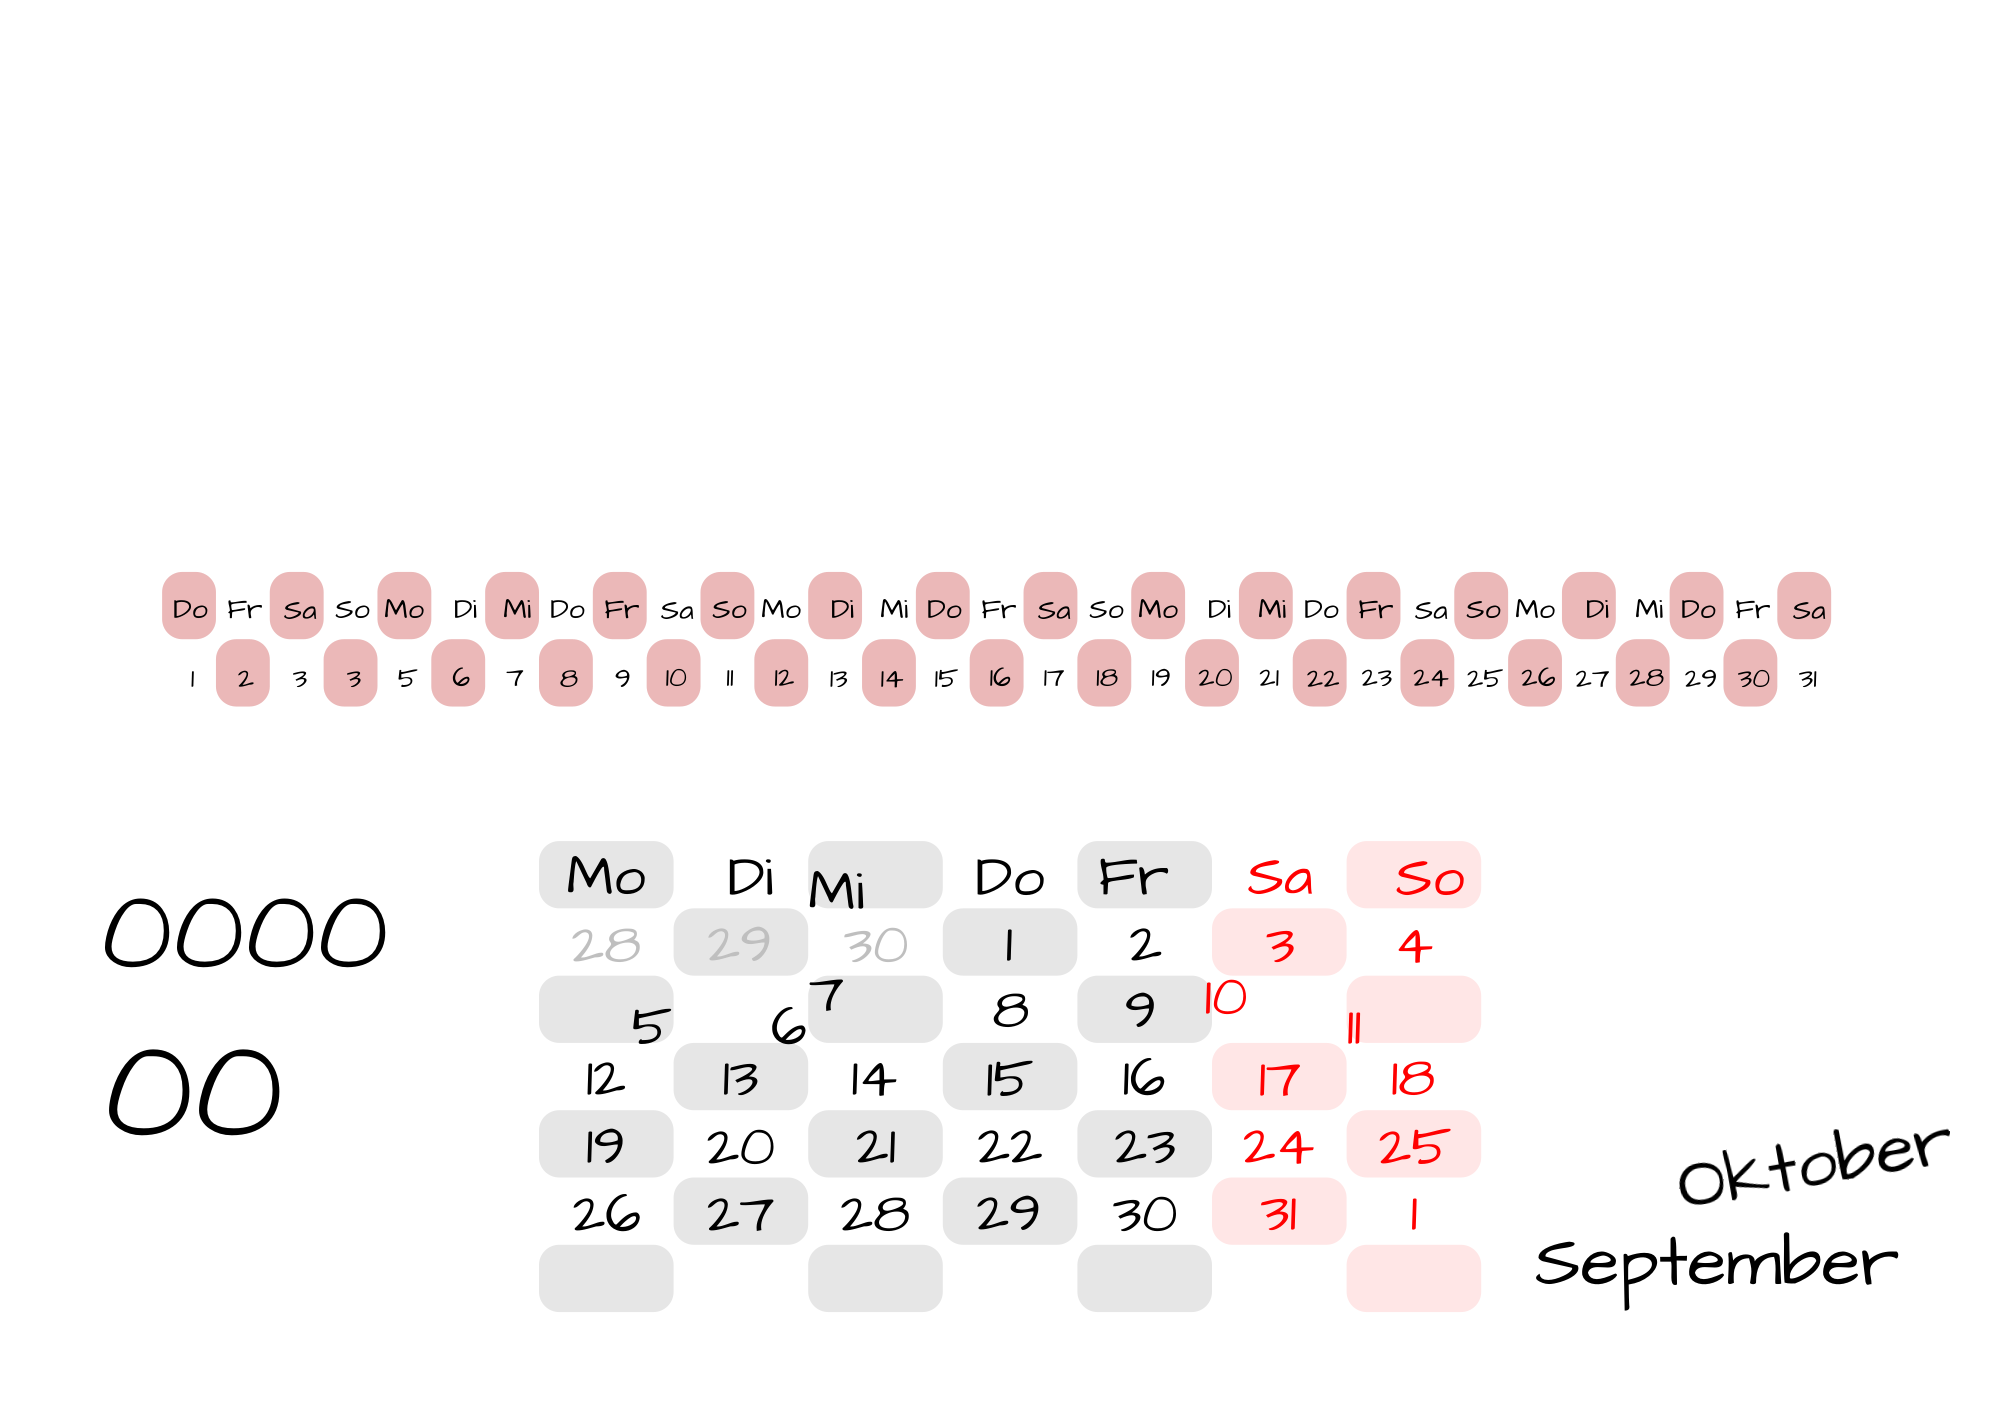
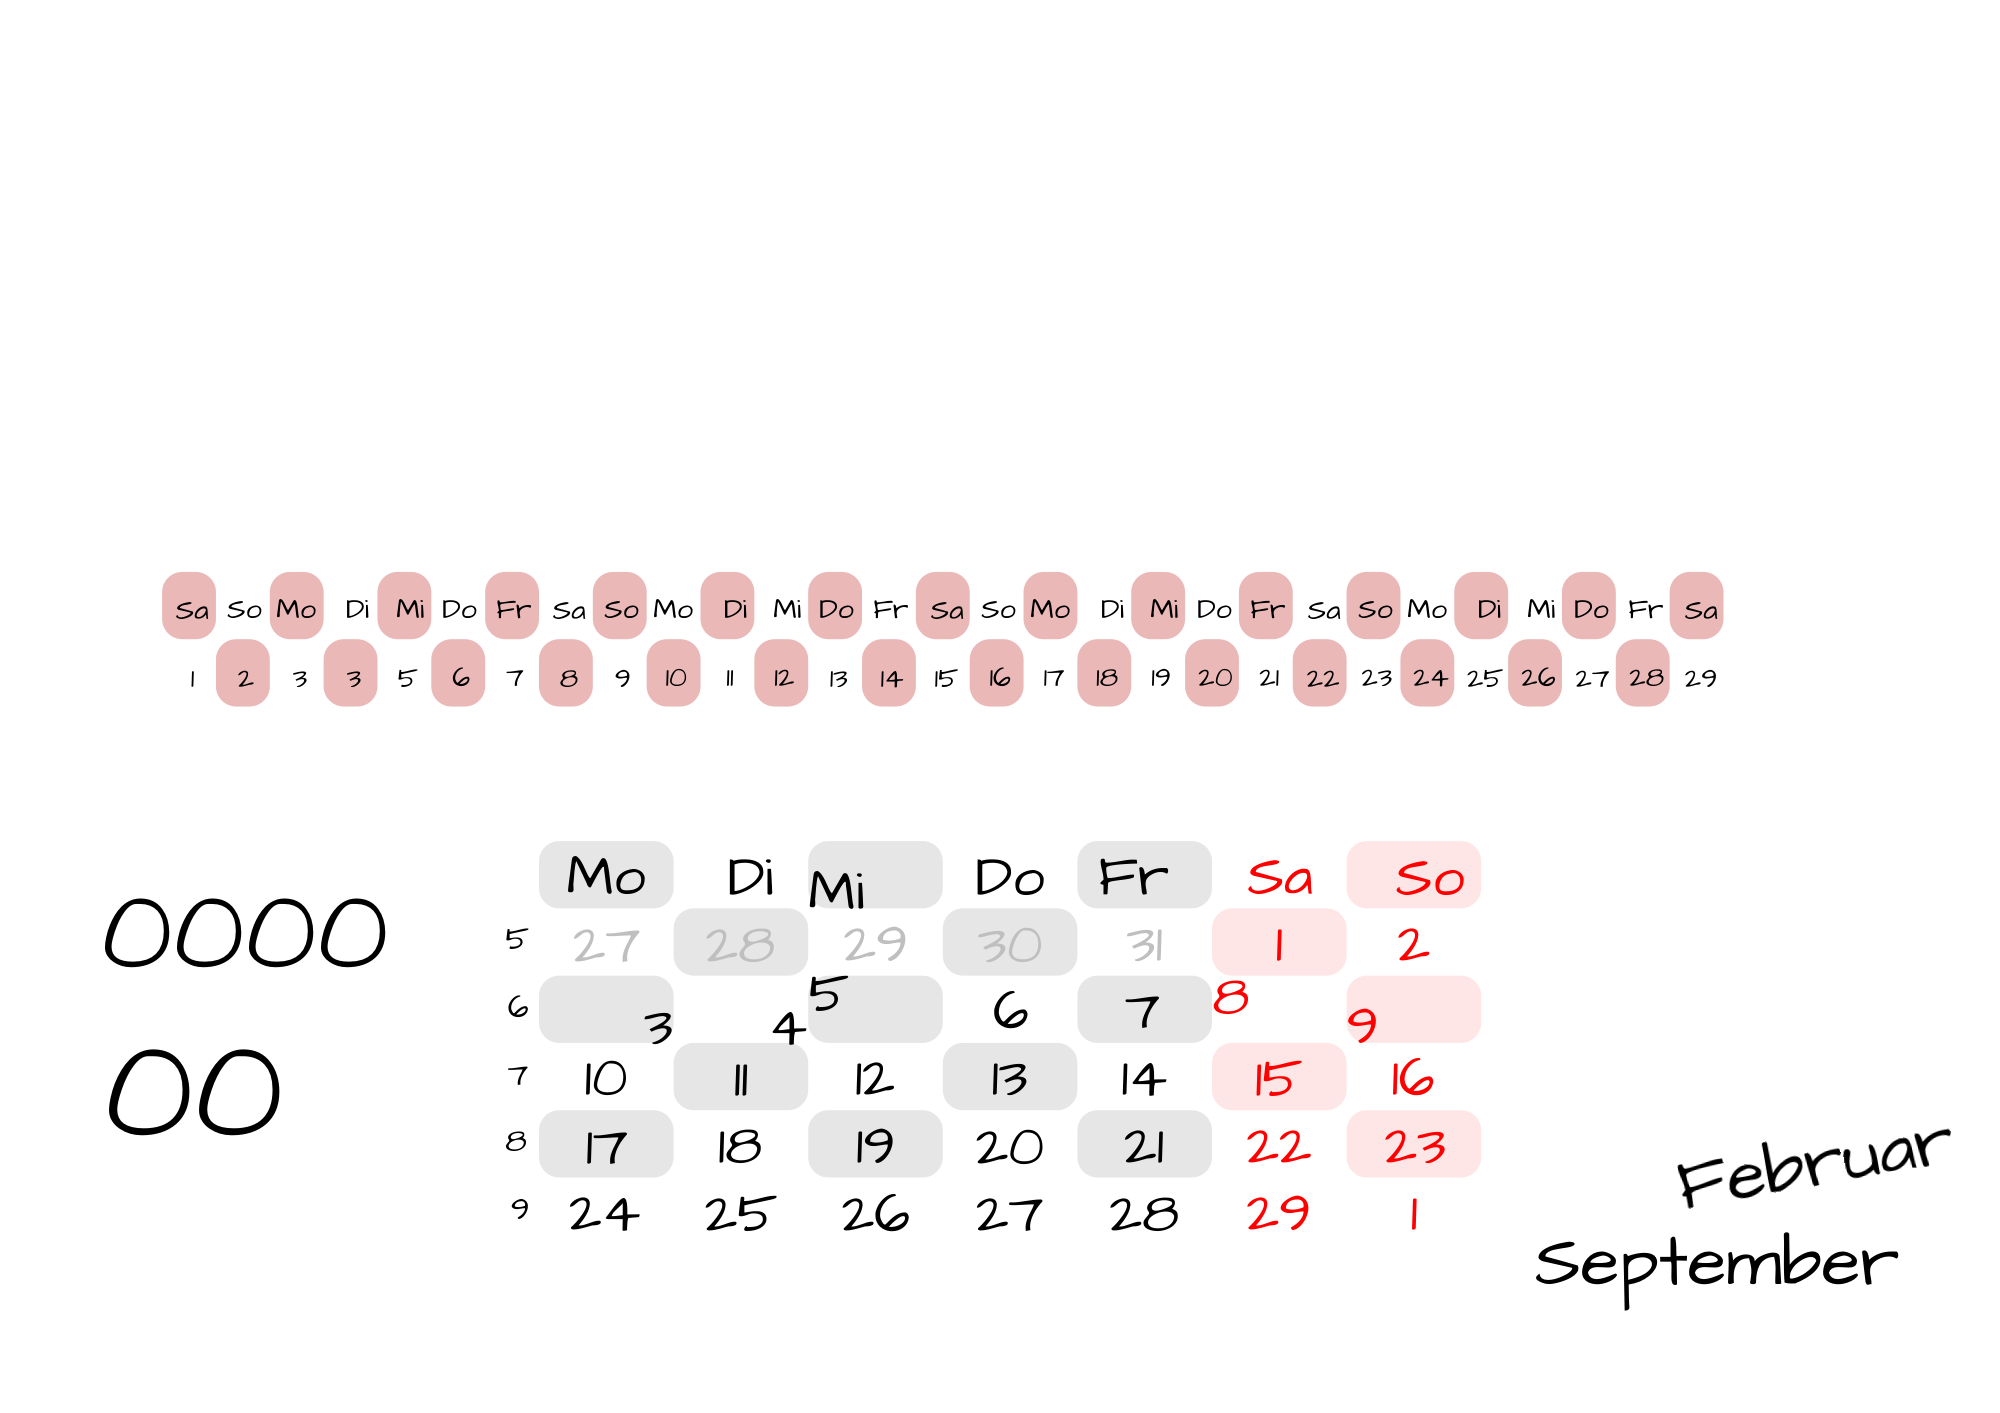
add skipping of elements

diff --git a/svg/node_mapping.go b/svg/node_mapping.go
@@ -9,9 +9,10 @@ import (
 )
 
 type NodeMapping struct {
-	root    *Node
-	Mapping *sync.Map
-	months  []*Node
+	root       *Node
+	Mapping    *sync.Map
+	keepMonths []*Node
+	skipDays   []*Node
 }
 
 type Node struct {
@@ -19,14 +20,20 @@ type Node struct {
 	Children     []*Node
 	start        string
 	end          string
-	renderMonths []int
+	monthsToKeep []int
+	daysToSkip   []int
 }
 
 func NewMapping(data []byte) NodeMapping {
 	root := &Node{}
 	t := html.NewTokenizer(bytes.NewReader(data))
 	m := &sync.Map{}
-	nm := NodeMapping{root, m, make([]*Node, 0)}
+	nm := NodeMapping{
+		root,
+		m,
+		make([]*Node, 0),
+		make([]*Node, 0),
+	}
 	nm.walk(t, root)
 	return nm
 }
@@ -56,7 +63,9 @@ loop:
 	return ""
 }
 
-var monthRegex = regexp.MustCompile("-m(\\d+)")
+var keepMonthsRegex = regexp.MustCompile("-m(\\d+)")
+var skipDayRegex = regexp.MustCompile("-n(\\d+)")
+
 func (nm *NodeMapping) addToMapping(t html.Token, parent *Node) *Node {
 	id := ""
 	for _, attr := range t.Attr {
@@ -68,49 +77,43 @@ func (nm *NodeMapping) addToMapping(t html.Token, parent *Node) *Node {
 	if id == "" {
 		return nil
 	}
-	months := monthRegex.FindStringSubmatch(id)
-	monthNumbers := make([]int, 0)
-	for _, month := range months {
-		n, _:= strconv.Atoi(month)
-		monthNumbers = append(monthNumbers, n)
+
+	var keepMonths []int
+	var skipDays []int
+
+	months := keepMonthsRegex.FindStringSubmatch(id)
+	if len(months) > 0 {
+		keepMonths = make([]int, 0)
+		for _, month := range months[1:] {
+			x, _ := strconv.Atoi(month)
+			keepMonths = append(keepMonths, x)
+		}
 	}
+
+	days := skipDayRegex.FindStringSubmatch(id)
+	if len(days) > 0 {
+		skipDays = make([]int, 0)
+		for _, day := range days[1:] {
+			x, _ := strconv.Atoi(day)
+			skipDays = append(skipDays, x)
+		}
+	}
+
 	n := &Node{
 		id,
 		make([]*Node, 0),
 		t.String(),
 		"",
-		monthNumbers,
+		keepMonths,
+		skipDays,
 	}
 	nm.Mapping.Store(id, n)
-	if len(monthNumbers) > 0 {
-
+	if len(keepMonths) > 0 {
+		nm.keepMonths = append(nm.keepMonths, n)
+	}
+	if len(skipDays) > 0 {
+		nm.skipDays = append(nm.skipDays, n)
 	}
 	parent.Children = append(parent.Children, n)
 	return n
 }
-
-//func filterByMonth(data []byte, month int) (Node, map[string]Node) {
-//	var start Node
-//	if err := xml.Unmarshal(data, &start); err != nil {
-//		panic("cannot parse svg: " + err.Error())
-//	}
-//
-//	mapping := make(map[string]Node)
-//	walkAndFilter(start.Nodes, mapping, func(node Node) bool {
-//		reg := regexp.MustCompile("^m(\\d+)") // todo check
-//		ids := strings.Split(node.Id, "-")
-//		for _, id := range ids {
-//			subj := reg.FindString(id)
-//			n, err := strconv.Atoi(subj)
-//			if err != nil {
-//				continue
-//			}
-//			if n == month {
-//				return false
-//			}
-//		}
-//		return true
-//	})
-//
-//	return start, mapping
-//}

diff --git a/svg/calendar_renderer.go b/svg/calendar_renderer.go
@@ -31,11 +31,13 @@ var (
 	wg = &sync.WaitGroup{}
 )
 
-func (c *Calendar) Render(year, month int, width float64) {
-	ctx := renderSvg(c.svgContent, width)
-	go startReceiver(ctx)
+func (c *Calendar) Render(year, month int, width, height float64) {
+	canvas := gg.NewContext(int(width), int(height))
+	go startReceiver(canvas)
 	c.drawTexts(year, month)
-	ctx.SavePNG("saved.png")
+	bg := renderSvg(c.svgContent, width)
+	bg.DrawImage(canvas.Image(), 0, 0)
+	bg.SavePNG("saved.png")
 }
 
 type ImageObject struct {
@@ -206,19 +208,49 @@ loop:
 		}
 	}
 
-	//reg := regexp.MustCompile("<rect id=\"rect\".*[]")
-	//blanks := 42 - counter + 1
-	//for _, elements := range c.skipWeeks {
-	//	for _, element := range elements {
-	//		delete(c.NodeMapping, element)
-	//	}
-	//}
-	//
-	//for _, elements := range c.skipWeeks {
-	//	for _, elementId := range elements {
-	//		elementId
-	//	}
-	//}
+	currentDate = time.Date(year, time.Month(month), 1, 12, 0, 0, 0, time.Local)
+	for _, calendarWeek := range c.calendarWeeksTable {
+		_, w := currentDate.ISOWeek()
+		calendarWeek.Content = strconv.Itoa(w)
+		wg.Add(1)
+		drawSingleText(&calendarWeek, year, month)
+		currentDate = currentDate.Add(7 * 24 * time.Hour)
+		if int(currentDate.Month()) != month {
+			break
+		}
+	}
+
+	c.removeSkipDays(counter, true)
+	c.removeSkipMonths(counter)
+}
+func (c *Calendar) removeSkipMonths(start int) {
+	monthsToRemove := start % 7
+	for i := 0; i < monthsToRemove; i++ {
+
+	}
+}
+func (c *Calendar) removeSkipDays(start int, greaterThan bool) {
+	for _, node := range c.nodeMapping.skipDays {
+		for _, skipDay := range node.daysToSkip {
+			if greaterThan && skipDay >= start {
+				c.removeNode(node)
+			} else if !greaterThan && skipDay <= start {
+				c.removeNode(node)
+			}
+		}
+	}
+}
+
+func (c *Calendar) removeNode(n *Node) {
+	for _, child := range n.Children {
+		c.removeNode(child)
+	}
+
+	if n.end == "" {
+		c.svgContent = strings.Replace(c.svgContent, n.start, "", -1)
+	} else {
+		c.svgContent = strings.Replace(c.svgContent, n.start+n.end, "", -1) // todo: check if not regex
+	}
 }
 
 func (c *Calendar) fillLine(year, month int) {
@@ -243,6 +275,7 @@ func (c *Calendar) fillLine(year, month int) {
 		counter++
 		first = first.Add(24 * time.Hour)
 	}
+	c.removeSkipDays(counter, true)
 }
 
 func (c *Calendar) fillPositionLine(position, year, month int, isWeekend bool) {

diff --git a/main_test.go b/main_test.go
@@ -1,33 +1,27 @@
 package main
 
 import (
-	"encoding/xml"
-	"fmt"
-	"io/ioutil"
-	"strconv"
-	"strings"
-	"svg/svg"
 	"testing"
-	"time"
 )
 
 func TestParseRender(t *testing.T) {
-	var foo svg.Svg
-	data, err := ioutil.ReadFile("wandkalender_a4-hoch_month.svg")
-	if err != nil {
-		fmt.Errorf("shit happened: %s", err)
-	}
-	err = xml.Unmarshal(data, &foo)
-	if err != nil {
-		fmt.Errorf("shit happened: %s", err)
-	}
-
-	c := svg.NewCalendar()
-	dims := strings.Split(foo.ViewBox, " ")
-	size := 2000.0
-	widthViewbox, _ := strconv.ParseFloat(dims[2], 64)
-	scalingRatio := size / widthViewbox
-	c.Parse(foo, string(data), scalingRatio)
-	year, month, _ := time.Now().Date()
-	c.Render(year, int(month), size)
+	return
+	//var foo svg.Svg
+	//data, err := ioutil.ReadFile("wandkalender_a4-hoch_month.svg")
+	//if err != nil {
+	//	fmt.Errorf("shit happened: %s", err)
+	//}
+	//err = xml.Unmarshal(data, &foo)
+	//if err != nil {
+	//	fmt.Errorf("shit happened: %s", err)
+	//}
+	//
+	//c := svg.NewCalendar()
+	//dims := strings.Split(foo.ViewBox, " ")
+	//size := 2000.0
+	//widthViewbox, _ := strconv.ParseFloat(dims[2], 64)
+	//scalingRatio := size / widthViewbox
+	//c.Parse(foo, string(data), scalingRatio)
+	//year, month, _ := time.Now().Date()
+	//c.Render(year, int(month), size)
 }

diff --git a/svg/calendar.go b/svg/calendar.go
@@ -32,9 +32,10 @@ type Calendar struct {
 	ReceiverWg     *sync.WaitGroup
 	RenderPrevNext bool
 	svgContent     string
+	nodeMapping    NodeMapping
 }
 
-func NewCalendar(svg []byte, month int) Calendar {
+func NewCalendar(svg []byte) Calendar {
 	return Calendar{
 		texts:                     make([]CalendarText, 0),
 		weekdayHeadingsTable:      make(map[int]CalendarText),
@@ -59,7 +60,8 @@ func NewCalendar(svg []byte, month int) Calendar {
 		ReceiverWg: &sync.WaitGroup{},
 
 		RenderPrevNext: false,
-		svgContent:     string(svg),
+		svgContent:     string(svg), // todo: use []byte
+		nodeMapping:    NewMapping(svg),
 	}
 }
 
@@ -139,7 +141,6 @@ func (c *Calendar) SaveText(x CalendarText) {
 	}
 }
 
-// todo: font-style
 type CalendarText struct {
 	Position
 	Annotations           AnnotationCollection

diff --git a/main.go b/main.go
@@ -22,22 +22,19 @@ func main() {
 	if err != nil {
 		fmt.Errorf("shit happened: %s", err)
 	}
+	// todo: unite svg and node-mapping
 
-	mapping := svg.NewMapping(data)
-
-	val, ok := mapping.Mapping.Load(""); if ok {
-		println(val)
-	}
 	year, m, _ := time.Now().Date()
-	month := int(m) + 1
-	c := svg.NewCalendar(data, month)
+	month := int(m) - 7
+	c := svg.NewCalendar(data)
 	dims := strings.Split(foo.ViewBox, " ")
 	size := 2000.0
 	widthViewbox, _ := strconv.ParseFloat(dims[2], 64)
+	heightViewbox, _ := strconv.ParseFloat(dims[3], 64)
 	scalingRatio := size / widthViewbox
 
 	c.Parse(foo, string(data), scalingRatio)
-	c.Render(year, month, size)
+	c.Render(year, month, size, size * (heightViewbox / widthViewbox))
 
 	fmt.Printf("done in: %vs\n", time.Since(start).Seconds())
 	return

diff --git a/svg/annotation_year.go b/svg/annotation_year.go
@@ -15,7 +15,7 @@ func (y Year) Matches(subject string) bool {
 }
 
 func (y Year) New(subject string) Annotation {
-	return Year{}
+	return Year{} // todo
 }
 
 func (y Year) Id() string {

diff --git a/svg/annotation.go b/svg/annotation.go
@@ -37,6 +37,7 @@ func init() {
 		SkipWeek{},
 		WeekdayHeader{},
 		WeekdayPosition{},
+		Year{},
 	}
 }
 
